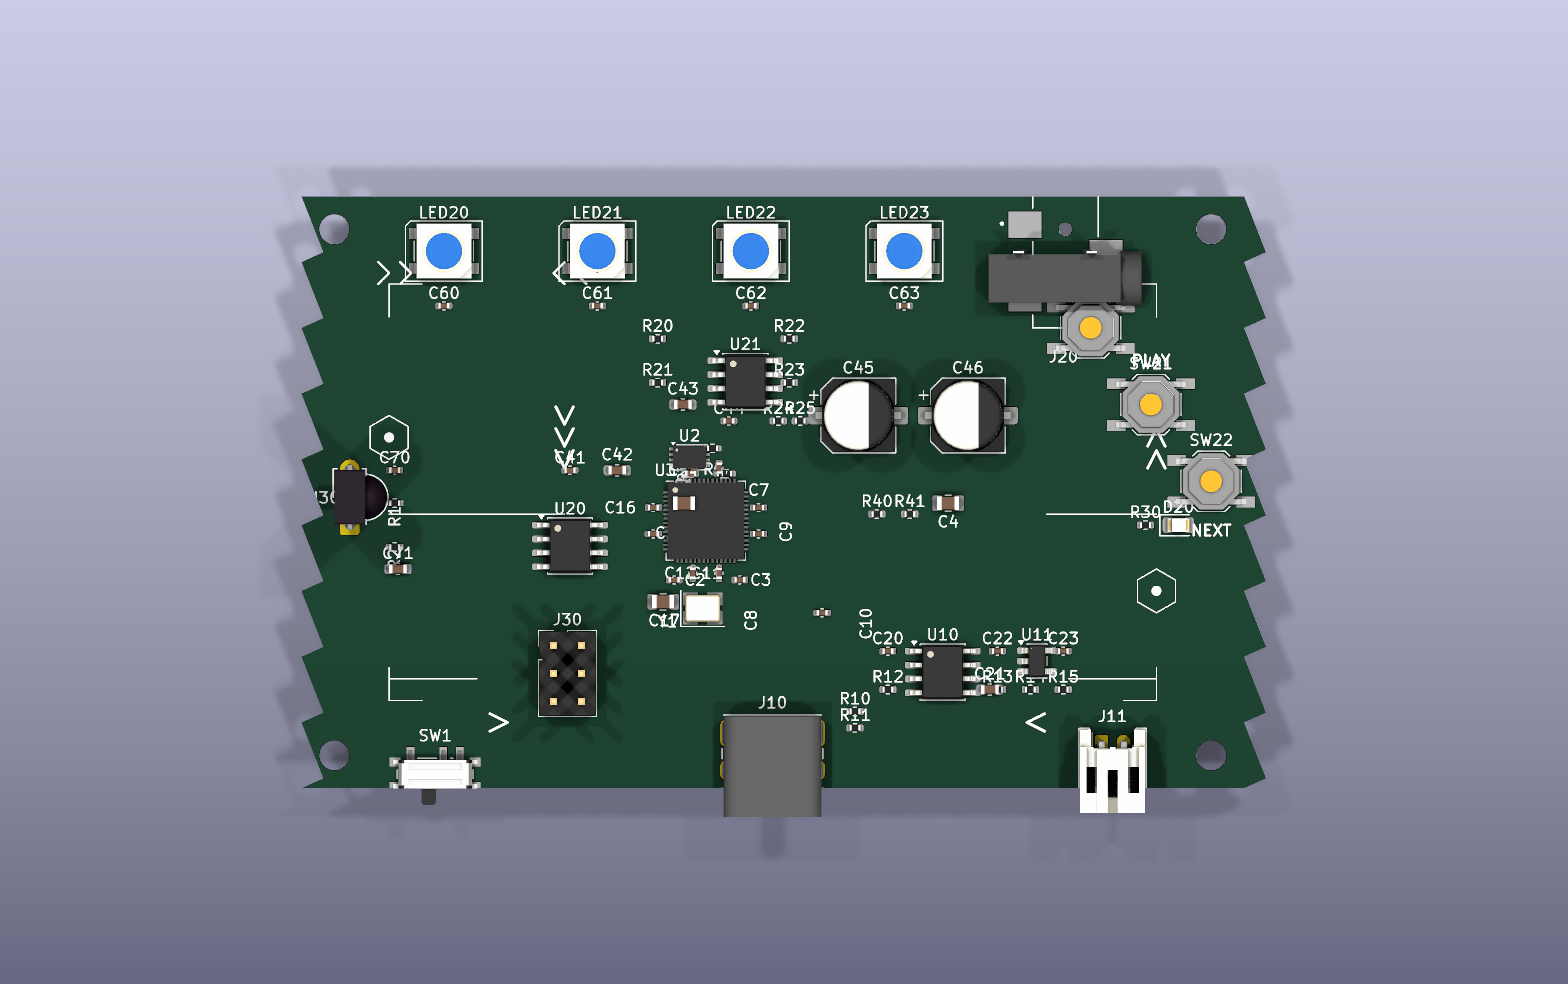
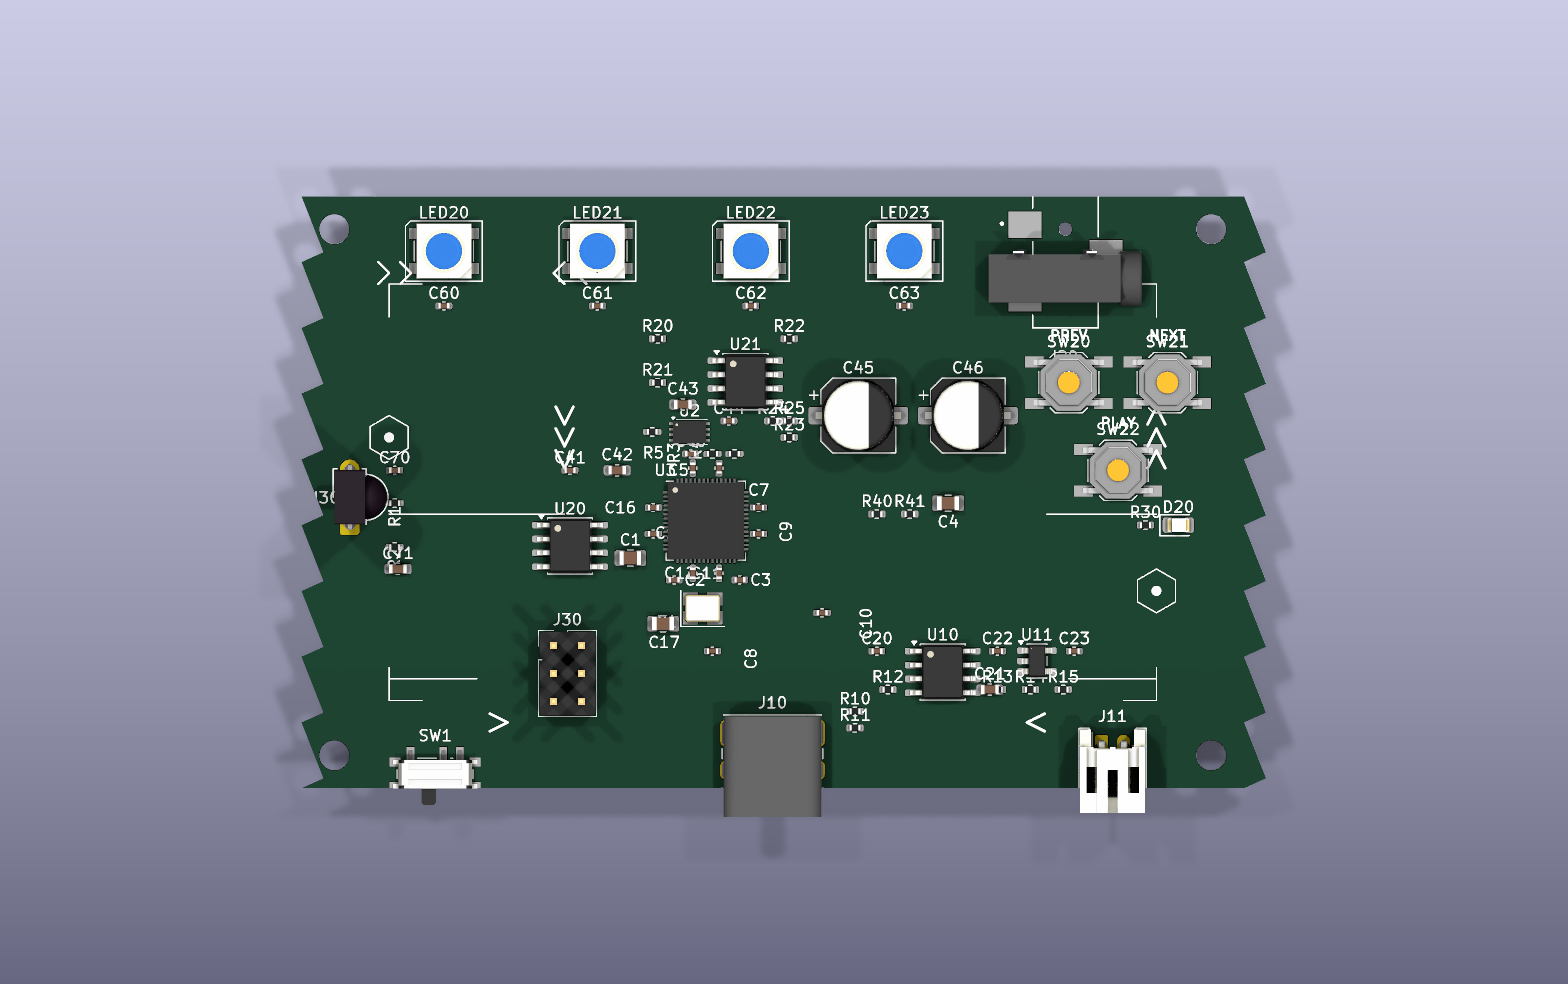
fix(layout): cleanup_pass3 — eliminate all body overlaps from check_courtyards
Driven by check_courtyards.py output (27 overlaps → 12, with all
remaining ≤0.34mm² courtyard-only / no body overlap).

Fixes:
- SW20 was overlapping J20 audio jack (24mm² courtyard). Switch buttons
  from diagonal to triangle (SW20+SW21 top row, SW22 below). Triangle
  fits inside the J20↔D20 vertical constraint (D20 locked at y=110 for
  IR pair alignment).
- SW20 ↔ C46 6.57mm² — anchor x≥170 clears C46 audio cap.
- 9mm SW20↔SW21 spacing clears TS-1187A courtyards (which extend 2.1mm
  beyond body).
- C1 was inside U3 body (shift-left moved U3 over it). → (130, 113).
- C8 was on top of Y1 crystal. → (137.5, 121.5).
- R3 + R4 were 0.4mm apart (overlapping each other). Separated to
  (137.5, 103.5) and (139.5, 103.5).
- U2 moved up 2.3mm so U3 top-edge cap ring clears its body.
  R5, R3, R4, C40 follow U2.
- R23 was inside U21 courtyard. → (144.5, 102).
- C23 ↔ U11 fix. C20 ↔ U10 nudge.
- C17 ↔ Y1 small fix.
- Silk PREV/NEXT/PLAY follow the new triangle.

diff --git a/defcon_badge/tools/cleanup_pass3.py b/defcon_badge/tools/cleanup_pass3.py
@@ -1,0 +1,163 @@
+#!/usr/bin/env python3
+"""cleanup_pass3.py — fix overlaps revealed by check_courtyards.
+
+- SW20 was overlapping J20 audio jack body — slide button cluster down
+  4mm so SW20 clears J20 bottom edge.
+- C1 was inside U3 body (shift-left moved U3 over it).
+- C8 was overlapping Y1 crystal.
+- R3+R4 were 0.4mm apart from each other — separate them.
+- Move U2 up by 2mm so the U3 top-edge cap ring clears its body.
+- R5, R3, R4, C40 follow U2.
+- R23 overlapping U21 — slide down off the amp.
+- C23 overlapping U11 LDO — slide right.
+- Update silk labels to follow new button positions (now to right of each
+  button instead of below).
+"""
+from __future__ import annotations
+import re
+import subprocess
+import sys
+import uuid
+from pathlib import Path
+
+PCB = Path("defcon_badge/defcon_badge.kicad_pcb")
+SILK_TAG = "c1eanup1"
+
+# Move U2 + companions up so they clear the U3 top-edge cap ring.
+INDIVIDUAL_MOVES = {
+    'U2':   (135.4, 101.5, None),   # up 2.3mm
+    'R5':   (132.0, 101.5, None),   # left of U2
+    'R3':   (137.5, 103.5, None),   # spread from R4
+    'R4':   (139.5, 103.5, None),   # spread from R3
+    'C40':  (135.5, 103.5, None),   # follow U2
+    'C1':   (130.0, 113.0, None),   # was inside U3 body
+    'C8':   (137.5, 121.5, None),   # was over Y1
+    # Audio
+    'R23':  (144.5, 102.0, None),   # below U21, clear of R24/R25
+    'R24':  (143.0, 100.5, None),   # nudge left for C45 clearance
+    'R25':  (144.5, 100.5, None),
+    # Charger area
+    'C23':  (170.5, 121.5, None),   # right of U11
+    'C20':  (152.5, 121.5, None),   # nudge left for U10 clearance
+    'C17':  (133.0, 119.0, None),   # below Y1, clear courtyard
+    # Buttons — triangle. D20 is locked at y=110 for IR pair alignment.
+    # Spacing 11mm between top row to clear courtyards (TS-1187A
+    # courtyard extends 2.1mm beyond body so 8.5mm min anchor spacing).
+    'SW20': (170.0,  97.0, None),   # top-left — x≥170 to clear C46 audio cap
+    'SW21': (179.0,  97.0, None),   # top-right (9mm spacing clears courtyards)
+    'SW22': (174.5, 105.0, None),   # bottom-center (downward triangle)
+}
+
+SILK = [
+    ('PREV',  170.0,  92.7, 0.9),
+    ('NEXT',  179.0,  92.7, 0.9),
+    ('PLAY',  174.5, 100.7, 0.9),
+]
+
+
+def find_footprint_block(text: str, refdes: str) -> tuple[int, int] | None:
+    pattern = rf'\(property "Reference" "{re.escape(refdes)}"'
+    m = re.search(pattern, text)
+    if not m:
+        return None
+    pos = m.start()
+    depth = 0
+    i = pos - 1
+    while i >= 0:
+        if text[i] == ')':
+            depth += 1
+        elif text[i] == '(':
+            if depth == 0:
+                j = i + 1
+                while j < len(text) and (text[j].isalnum() or text[j] == '_'):
+                    j += 1
+                if text[i + 1:j] == 'footprint':
+                    d2 = 1
+                    k = i + 1
+                    while k < len(text):
+                        if text[k] == '(':
+                            d2 += 1
+                        elif text[k] == ')':
+                            d2 -= 1
+                            if d2 == 0:
+                                return i, k + 1
+                        k += 1
+            depth -= 1
+        i -= 1
+    return None
+
+
+def set_fp_at(text: str, refdes: str, x: float, y: float,
+              rot: float | None) -> str:
+    span = find_footprint_block(text, refdes)
+    if span is None:
+        print(f"  {refdes}: not found")
+        return text
+    start, end = span
+    block = text[start:end]
+    pat = re.compile(r'(\(at )(-?\d+\.?\d*)\s+(-?\d+\.?\d*)(\s+(-?\d+\.?\d*))?(\))')
+    new_block, _ = pat.subn(
+        lambda m: (f"(at {x:.3f} {y:.3f}"
+                   + (f" {rot}" if rot is not None
+                      else (f" {m.group(5)}" if m.group(5) else ""))
+                   + ")"),
+        block, count=1
+    )
+    return text[:start] + new_block + text[end:]
+
+
+def remove_old_silk(text: str) -> str:
+    pat = re.compile(
+        r'\t\(gr_text "[^"]*" \(at [^)]+\) \(layer "[^"]+"\) '
+        r'\(uuid "' + SILK_TAG + r'[^"]*"\) \(effects[^\n]+\n'
+    )
+    new, n = pat.subn('', text)
+    if n:
+        print(f"  removed {n} old cleanup silk labels")
+    return new
+
+
+def add_silk_text(text: str, label: str, x: float, y: float,
+                  size: float) -> str:
+    short = uuid.uuid4().hex[:24]
+    uid = SILK_TAG + short
+    block = (
+        f'\t(gr_text "{label}" (at {x:.3f} {y:.3f} 0) '
+        f'(layer "F.SilkS") (uuid "{uid}") '
+        f'(effects (font (size {size:.2f} {size:.2f}) (thickness 0.2))))\n'
+    )
+    idx = text.rfind('\n)')
+    return text[:idx + 1] + block + text[idx + 1:]
+
+
+def main() -> int:
+    text = PCB.read_text()
+    Path('defcon_badge/defcon_badge.kicad_pcb.pre_cleanup3').write_text(text)
+
+    print("== Move parts ==")
+    for ref, (x, y, rot) in INDIVIDUAL_MOVES.items():
+        text = set_fp_at(text, ref, x, y, rot)
+        print(f"  {ref}: → ({x}, {y})")
+
+    print("== Silk ==")
+    text = remove_old_silk(text)
+    for label, x, y, size in SILK:
+        text = add_silk_text(text, label, x, y, size)
+        print(f"  +silk '{label}' at ({x}, {y})")
+
+    PCB.write_text(text)
+    r = subprocess.run(
+        ['kicad-cli', 'pcb', 'drc', '--format', 'report',
+         '-o', '/tmp/drc.rpt', str(PCB)], capture_output=True
+    )
+    if r.returncode != 0:
+        print("FAILED. Restoring.")
+        PCB.write_text(
+            Path('defcon_badge/defcon_badge.kicad_pcb.pre_cleanup3').read_text())
+        return 1
+    print("OK.")
+    return 0
+
+
+if __name__ == '__main__':
+    sys.exit(main())